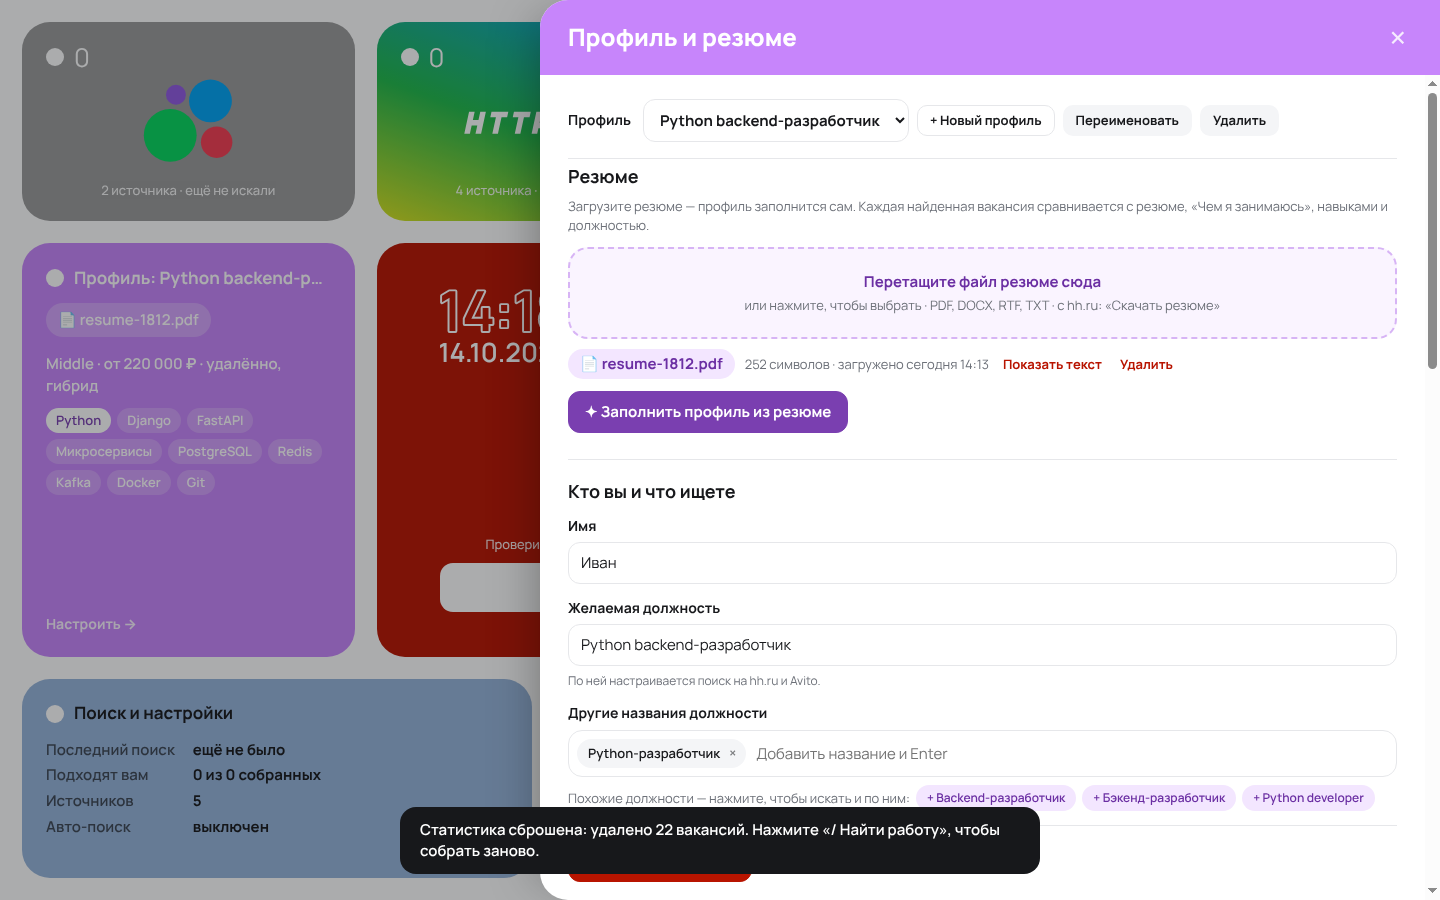
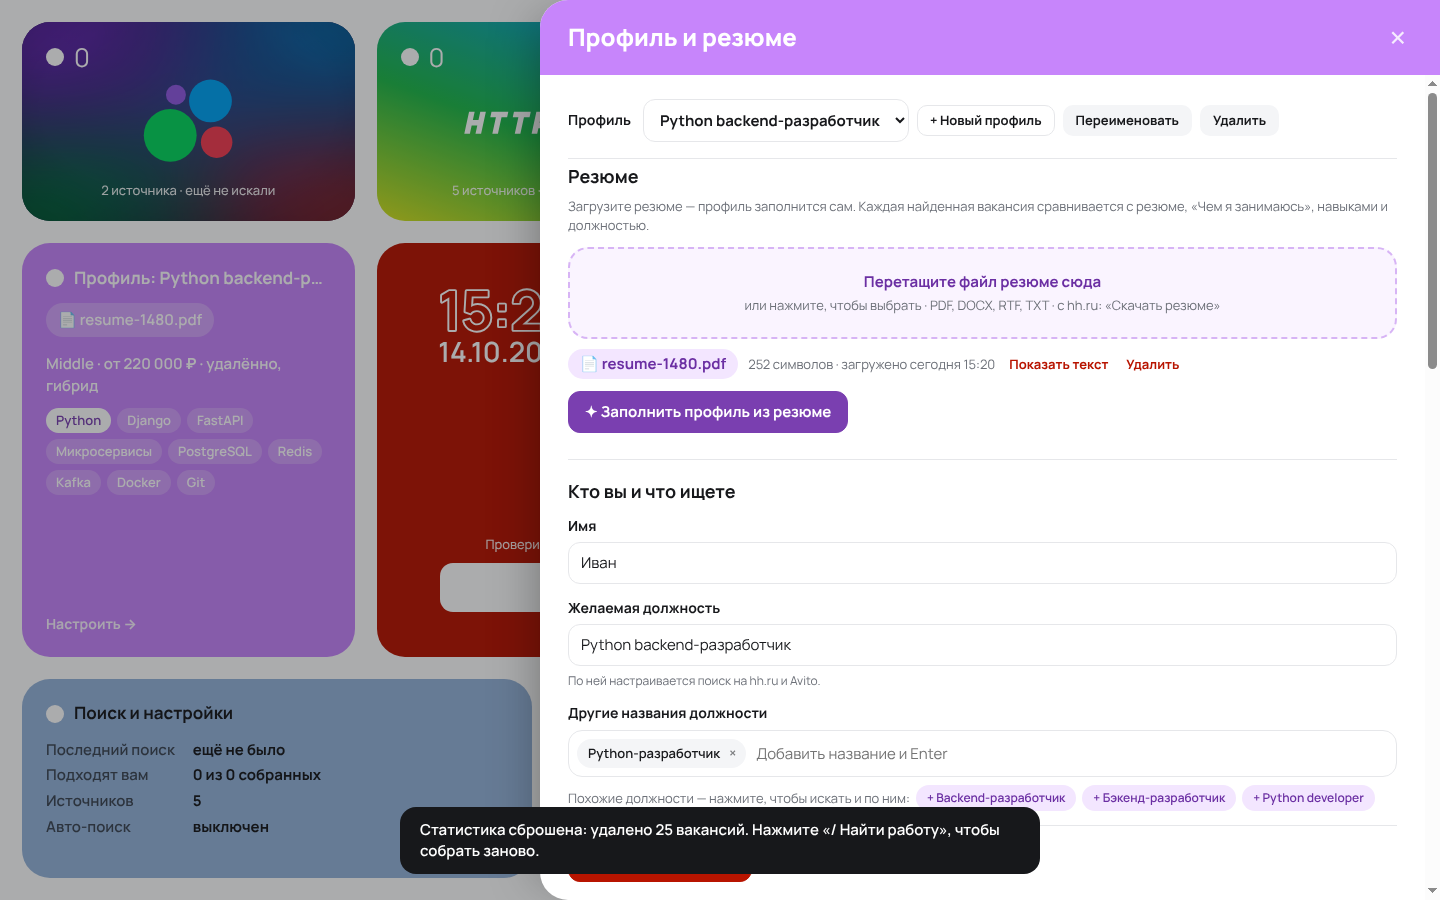
v0.8.0: T-Банк через API сайта, mesh-градиент Avito, «/ поддержка» на линии solk
- Сайты, которые рисуют вакансии из своего API: адаптер для T-Банка (POST
  /pfpjobs/papi/getVacancies, payload.vacancies, город — subtitle). Работает и в
  «Защищённом режиме» Яндекс Браузера, без настроек; рабочий вариант запроса
  запоминается.
- Плитка Avito: mesh-градиент в цветах Avito с затемнением к краям — читаются
  счётчик, подпись и логотип. Шапка панели Avito в тех же цветах.
- «/ поддержка» по вертикали — по середине надписи «solk» в логотипе.

Claude-Session: https://claude.ai/code/session_011yHYjDSQPaJ1ieGcuGDC3y

diff --git a/extension/lib/sites.js b/extension/lib/sites.js
@@ -1,0 +1,76 @@
+// Сайты, которые рисуют список вакансий скриптом и берут его из своего API.
+// В Яндекс Браузере часть из них (сайты банков) открывается в «Защищённом режиме»,
+// куда расширения не пускают, — тогда вакансии берём прямо из этого API.
+
+// T-Банк: сайт карьеры грузит вакансии POST-запросом на /pfpjobs/papi/getVacancies,
+// список — в payload.vacancies, город — в subtitle.
+// Точный формат запроса не опубликован: пробуем несколько вариантов и запоминаем рабочий.
+const TBANK = {
+  id: 'tbank',
+  match: (u) => /(^|\.)(tbank|tinkoff)\.ru$/i.test(u.hostname) && /career|vacanc/i.test(u.pathname),
+  endpoint: (u) => `${u.origin}/pfpjobs/papi/getVacancies`,
+  bodies: [
+    { limit: 300, offset: 0, filters: { generatedGraphQL: { type: 'T_CAREER' } } },
+    { limit: 300, offset: 0, generatedGraphQL: { type: 'T_CAREER' } },
+    { limit: 300, offset: 0, filter: { generatedGraphQL: { type: 'T_CAREER' } } },
+    { limit: 300, offset: 0, generatedGraphQL: { type: 'T_CAREER', categories: [] } },
+  ],
+  list: (json) => json?.payload?.vacancies || json?.payload?.items || json?.vacancies,
+};
+
+export const SITE_APIS = [TBANK];
+
+export function siteApiFor(url, cfg = {}) {
+  let u;
+  try { u = new URL(url); } catch { return null; }
+  return SITE_APIS.find((a) => cfg.api === a.id || a.match(u)) || null;
+}
+
+const str = (v) => (v == null ? '' : typeof v === 'string' || typeof v === 'number' ? String(v)
+  : Array.isArray(v) ? v.map(str).filter(Boolean).join(', ') : typeof v === 'object' ? str(v.name ?? v.title ?? v.value ?? v.text ?? '') : '');
+const stripTags = (h) => str(h).replace(/<br\s*\/?>|<\/(p|li|div)>/gi, '\n').replace(/<[^>]+>/g, ' ').replace(/&nbsp;/g, ' ').replace(/[ \t]+/g, ' ').replace(/\s*\n\s*/g, '\n').trim();
+
+// Объект вакансии из JSON → карточка для normalizeItem.
+export function jobFromObject(x, pageUrl) {
+  const title = str(x.title ?? x.name ?? x.vacancyName ?? x.position ?? x.header).trim();
+  if (!title) return null;
+  const id = str(x.id ?? x.vacancyId ?? x.slug ?? x.urlSlug ?? x.code ?? x.uuid);
+  const own = str(x.url ?? x.link ?? x.href ?? x.vacancyUrl);
+  const base = new URL(pageUrl);
+  const url = own ? new URL(own, base.origin).href : `${pageUrl.split('#')[0]}#${encodeURIComponent(id || title)}`;
+  const sal = x.salary && typeof x.salary === 'object' ? x.salary : {};
+  const from = x.salaryFrom ?? sal.from ?? sal.min;
+  const to = x.salaryTo ?? sal.to ?? sal.max;
+  const salaryText = from || to ? `${from ? `от ${from}` : ''} ${to ? `до ${to}` : ''} ${str(sal.currency) || 'руб.'}`.trim() : typeof x.salary === 'string' ? x.salary : '';
+  const tags = [x.tags, x.labels, x.schedule, x.employment, x.workFormat, x.format, x.experience].map(str).filter(Boolean).join(', ');
+  const description = [x.description, x.shortDescription, x.short_description, x.announce, x.requirements, x.responsibilities, x.duties]
+    .map(stripTags).filter(Boolean).join('\n');
+  return {
+    externalId: url,
+    url,
+    title: title.slice(0, 160),
+    company: str(x.company ?? x.employer ?? x.companyName ?? x.organization),
+    location: str(x.subtitle ?? x.city ?? x.cities ?? x.location ?? x.region ?? x.address),
+    salaryText,
+    formatText: tags,
+    description: [description, tags].filter(Boolean).join('\n').slice(0, 6000),
+    cardText: [title, str(x.subtitle), tags, description].filter(Boolean).join('\n').slice(0, 1500),
+    publishedText: str(x.publishedAt ?? x.publicationDate ?? x.datePublished ?? x.createdAt ?? x.date),
+  };
+}
+
+// Вакансии из API сайта. fetchJson(url, body) делает POST и возвращает JSON или null.
+// known — номер варианта запроса, который сработал в прошлый раз.
+export async function readSiteApi(api, pageUrl, fetchJson, known = null) {
+  const order = known != null ? [known, ...api.bodies.keys()].filter((v, i, a) => a.indexOf(v) === i) : [...api.bodies.keys()];
+  const endpoint = api.endpoint(new URL(pageUrl));
+  for (const i of order) {
+    const json = await fetchJson(endpoint, api.bodies[i]).catch(() => null);
+    const list = api.list(json);
+    if (Array.isArray(list) && list.length) {
+      const items = list.map((x) => jobFromObject(x, pageUrl)).filter(Boolean);
+      if (items.length) return { variant: i, items, total: Number(json?.payload?.total ?? json?.payload?.count) || list.length };
+    }
+  }
+  return null;
+}

diff --git a/extension/ui.css b/extension/ui.css
@@ -89,7 +89,26 @@ button, input, select, textarea { font: inherit; color: inherit; }
 .tile:hover { transform: translateY(-3px); box-shadow: 0 14px 30px -18px rgba(0, 0, 0, .45); }
 .tile:focus-visible { outline: 3px solid #2f6fed; }
 
-.t-avito { grid-column: 1 / 3; grid-row: 1; background: var(--c-avito); }
+.t-avito { grid-column: 1 / 3; grid-row: 1; background: #2a1d4f; isolation: isolate; }
+/* Mesh-градиент в цветах Avito: размытые пятна (фиолетовый, синий, зелёный, красный)
+   + затемнение к краям и общий тёмный слой — чтобы читались текст и логотип. */
+.t-avito::before {
+  content: ''; position: absolute; inset: -30%; z-index: -2; pointer-events: none;
+  background:
+    radial-gradient(38% 42% at 22% 22%, #7a2fd6 0%, rgba(122, 47, 214, 0) 100%),
+    radial-gradient(42% 46% at 80% 20%, #0a86d1 0%, rgba(10, 134, 209, 0) 100%),
+    radial-gradient(42% 46% at 22% 82%, #03a85a 0%, rgba(3, 168, 90, 0) 100%),
+    radial-gradient(42% 46% at 82% 84%, #d93a3f 0%, rgba(217, 58, 63, 0) 100%),
+    radial-gradient(30% 30% at 52% 50%, #3d5aa8 0%, rgba(61, 90, 168, 0) 100%),
+    #33266a;
+  filter: blur(26px) saturate(1.05);
+}
+.t-avito::after {
+  content: ''; position: absolute; inset: 0; z-index: -1; pointer-events: none;
+  background:
+    radial-gradient(115% 125% at 50% 42%, rgba(0, 0, 0, 0) 38%, rgba(0, 0, 0, .5) 100%),
+    linear-gradient(rgba(0, 0, 0, .14), rgba(0, 0, 0, .3));
+}
 .t-generic { grid-column: 3 / 5; grid-row: 1; background: var(--c-generic); }
 .t-telegram { grid-column: 5 / 7; grid-row: 1; background: var(--c-telegram); }
 .t-hh { grid-column: 7 / 9; grid-row: 1; background: var(--c-hh); }
@@ -129,12 +148,14 @@ button, input, select, textarea { font: inherit; color: inherit; }
 .main-top { display: flex; justify-content: space-between; align-items: flex-start; gap: 4cqw; }
 .clock { display: block; height: 23cqh; width: auto; overflow: visible; flex: none; }
 .clock text { font: 600 100px Manrope, sans-serif; }
-.brand { height: 19cqh; width: auto; max-width: 52%; display: block; margin-top: .5cqh; }
+.main-top { --brand-h: 19cqh; --brand-top: .5cqh; }
+.brand { height: var(--brand-h); width: auto; max-width: 52%; display: block; margin-top: var(--brand-top); }
 .main-left { display: flex; align-items: flex-start; gap: 4.6cqw; min-width: 0; }
 /* «/ поддержка»: белая плашка того же шрифта, по вертикали — по центру строки со временем. */
 .support {
   --sh: 11cqh;
-  flex: none; height: var(--sh); margin-top: calc(23cqh * var(--time-frac, .56) / 2 - var(--sh) / 2);
+  /* Центр по вертикали — середина надписи «solk» в логотипе (ink 51.9…157.6 из 126.36 высоты SVG). */
+  flex: none; height: var(--sh); margin-top: calc(var(--brand-top) + var(--brand-h) * .473 - var(--sh) / 2);
   display: inline-flex; align-items: center; padding: 0 3.2cqw; border-radius: 3cqh;
   background: #fff; color: var(--red); border: 2px solid #fff;
   font: 500 5.4cqh/1 Manrope, sans-serif; letter-spacing: -.005em; white-space: nowrap; text-decoration: none;
@@ -146,7 +167,7 @@ button, input, select, textarea { font: inherit; color: inherit; }
 @container (max-width: 520px) {
   .main-left { flex-direction: column; gap: 2cqh; }
   .support { --sh: 8cqh; margin-top: 0; font-size: 4.2cqh; padding: 0 3.6cqw; border-radius: 2.4cqh; }
-  .brand { height: 15cqh; }
+  .main-top { --brand-h: 15cqh; }
 }
 .who {
   flex: 1; min-height: 0;
@@ -277,7 +298,7 @@ body.drawer-open { overflow: hidden; }
   padding: 20px 28px; border-radius: var(--radius) 0 0 0; color: #fff; background: var(--ink);
 }
 .dk-hh .drawer-head { background: var(--c-hh); }
-.dk-avito .drawer-head { background: var(--c-avito); }
+.dk-avito .drawer-head { background: radial-gradient(60% 140% at 10% 0%, #7a2fd6 0%, rgba(122, 47, 214, 0) 70%), radial-gradient(60% 140% at 90% 0%, #0a86d1 0%, rgba(10, 134, 209, 0) 70%), radial-gradient(60% 140% at 30% 100%, #03a85a 0%, rgba(3, 168, 90, 0) 70%), radial-gradient(60% 140% at 85% 100%, #d93a3f 0%, rgba(217, 58, 63, 0) 70%), #33266a; }
 .dk-telegram .drawer-head { background: var(--c-telegram); }
 .dk-generic .drawer-head { background: var(--c-generic); }
 .dk-profile .drawer-head { background: var(--c-profile); }

diff --git a/extension/background.js b/extension/background.js
@@ -5,6 +5,7 @@
 import * as store from './lib/store.js';
 import { normalizeItem, dedupKey } from './lib/parse.js';
 import { scoreAll } from './lib/match.js';
+import { siteApiFor, readSiteApi } from './lib/sites.js';
 
 const sleep = (ms) => new Promise((r) => setTimeout(r, ms));
 const rand = (a, b) => a + Math.random() * (b - a);
@@ -312,6 +313,19 @@ async function viaOffscreen(type, url, cfg = {}) {
   return (await abortable(chrome.runtime.sendMessage({ target: 'offscreen', type, url, cfg }))) || { fail: 'пустой ответ' };
 }
 
+// API сайта: POST с JSON, с куками сайта (у расширения есть доступ к нему).
+async function fromSiteApi(api, pageUrl) {
+  const key = `siteApi:${api.id}`;
+  const known = (await chrome.storage.local.get(key))[key];
+  const fetchJson = async (endpoint, body) => {
+    const r = await fetch(endpoint, { method: 'POST', credentials: 'include', headers: { 'content-type': 'application/json', accept: 'application/json' }, body: JSON.stringify(body) });
+    return r.ok ? r.json() : null;
+  };
+  const r = await abortable(readSiteApi(api, pageUrl, fetchJson, known)).catch((e) => { if (e instanceof Stopped) throw e; return null; });
+  if (r && r.variant !== known) await chrome.storage.local.set({ [key]: r.variant });
+  return r;
+}
+
 // После «Найти» на сайте: ждём перехода на страницу результатов (или перерисовки списка).
 function settleAfterSubmit(tabId) {
   return abortable(new Promise((resolve) => {
@@ -421,7 +435,19 @@ async function runSource(src, settings, quota = settings.scanLimit) {
           guarded = true;
         }
       }
-      if (mode === 'fetch') {
+      // Сайт рисует список скриптом из своего API (например, T-Банк) — берём вакансии из API:
+      // в «Защищённом режиме» сразу, во вкладке — если на странице ничего не нашлось.
+      const api = pages === 0 && src.platform === 'generic' ? siteApiFor(url, src.cfg) : null;
+      if (api && (mode === 'fetch' || !res?.items?.length)) {
+        const r = await fromSiteApi(api, url);
+        if (r?.items.length) {
+          if (handle) { handle.close(); handle = null; currentHandle = null; }
+          res = { items: r.items, total: r.total, nextUrl: null };
+          mode = 'fetch';
+          fillInfo = { query: null, city: null, via: 'API сайта' };
+        }
+      }
+      if (mode === 'fetch' && !res?.items?.length) {
         if (handle) { handle.close(); handle = null; currentHandle = null; }
         res = await viaOffscreen('parse', url, cfg);
         if (res.fail) { error = `не удалось скачать страницу: ${res.fail}`; break; }

diff --git a/tests/unit/sites.test.js b/tests/unit/sites.test.js
@@ -1,0 +1,39 @@
+import { test } from 'node:test';
+import assert from 'node:assert/strict';
+import fs from 'node:fs';
+import { siteApiFor, readSiteApi, jobFromObject } from '../../extension/lib/sites.js';
+
+const json = JSON.parse(fs.readFileSync(new URL('../fixtures/tbank-api.json', import.meta.url), 'utf8'));
+const page = 'https://www.tbank.ru/career/vacancies/all/saint-petersburg/?searchQuery=маркетолог';
+
+test('T-Банк: страница карьеры читается через API сайта', async () => {
+  const api = siteApiFor(page);
+  assert.equal(api?.id, 'tbank');
+  assert.equal(siteApiFor('https://www.tbank.ru/cards/'), null, 'не карьера');
+  assert.equal(siteApiFor('https://example.com/jobs'), null);
+  const calls = [];
+  // Сервер принимает только второй вариант запроса — адаптер пробует варианты по очереди.
+  const fetchJson = async (url, body) => { calls.push([url, body]); return calls.length === 2 ? json : null; };
+  const r = await readSiteApi(api, page, fetchJson);
+  assert.equal(calls[0][0], 'https://www.tbank.ru/pfpjobs/papi/getVacancies');
+  assert.equal(r.variant, 1);
+  assert.equal(r.items.length, 3);
+  assert.equal(r.total, 3);
+  const py = r.items[0];
+  assert.equal(py.url, 'https://www.tbank.ru/career/it/vacancy/moscow/python-backend/');
+  assert.equal(py.location, 'Москва');
+  assert.match(py.description, /FastAPI/);
+  assert.match(py.formatText, /Гибрид/);
+  // В следующий раз сразу запоминаемый вариант.
+  calls.length = 0;
+  const again = await readSiteApi(api, page, async (u, b) => { calls.push(b); return json; }, 1);
+  assert.equal(calls.length, 1);
+  assert.equal(again.variant, 1);
+});
+
+test('вакансия без ссылки ведёт на страницу списка', () => {
+  const it = jobFromObject({ id: 'a3', title: 'Представитель', subtitle: 'Санкт-Петербург' }, page);
+  assert.ok(it.url.startsWith('https://www.tbank.ru/career/vacancies/all/saint-petersburg/?searchQuery='));
+  assert.ok(it.url.endsWith('#a3'));
+  assert.equal(jobFromObject({ id: 1 }, page), null);
+});

diff --git a/extension/ui/sources.js b/extension/ui/sources.js
@@ -57,6 +57,7 @@ function stateLine(st) {
 function fillLine(s, st) {
   if (s.platform !== 'generic' || s.autoFill === false || !st.filled) return null;
   const f = st.filled;
+  if (f.via === 'API сайта') return h('div', { class: 'src-fill' }, 'Вакансии взяты напрямую из API сайта (браузер не пускает расширение на страницу) — весь список, отобран по вашему профилю.');
   const what = [f.query ? h('span', {}, 'должность ', h('b', {}, `«${f.query}»`)) : null, f.city ? h('span', {}, `${f.query ? ', ' : ''}город `, h('b', {}, f.city)) : null].filter(Boolean);
   if (!what.length) return null;
   return h('div', { class: 'src-fill' }, `Подставлено ${f.via === 'ссылка' ? 'в ссылку' : 'в поля сайта'}: `, ...what, '. Проверьте, что сайт понял правильно.', f.note ? ` (${f.note})` : '');

diff --git a/README.md b/README.md
@@ -184,12 +184,15 @@ Telegram-каналы и сайты компаний **в вашем же бра
   `/search/4219605`), распознаются по одинаковым ссылкам с номерами в списке.
 - Если на странице нет карточек, но есть данные для скрипта (Next.js, Nuxt и т. п.),
   вакансии берутся оттуда.
-- **Сайты банков в Яндекс Браузере** (tbank.ru, rabota.sber.ru) работают в защищённом
-  режиме, и расширения туда не пускают. Скорее всего, ошибка «Cannot access contents
-  of url…» была отсюда. Теперь такие страницы читаются без вкладки: расширение скачивает страницу и
-  разбирает её само. В этом режиме поля на сайте не заполняются, должность
-  подставляется только в ссылку. Поэтому для таких сайтов вставляйте ссылку уже с
-  поиском, например `…/vacancies/?searchQuery=маркетолог`.
+- **Сайты банков в Яндекс Браузере** (tbank.ru, rabota.sber.ru) открываются в
+  «Защищённом режиме», и расширения туда не пускают (ошибка «Cannot access contents of
+  url…»). Такие сайты читаются без вкладки и без каких-либо настроек:
+  - **T-Банк:** вакансии берутся прямо из API, из которого их загружает сам сайт
+    (`/pfpjobs/papi/getVacancies`). Это весь список, а отбор по должности и городу
+    делает профиль. Формат запроса T-Банк не публикует, поэтому расширение пробует
+    несколько вариантов и запоминает рабочий.
+  - Остальные такие сайты расширение скачивает и разбирает само. Поля на сайте в этом
+    режиме не заполняются, должность подставляется только в ссылку.
 
 ### Актуальность
 
